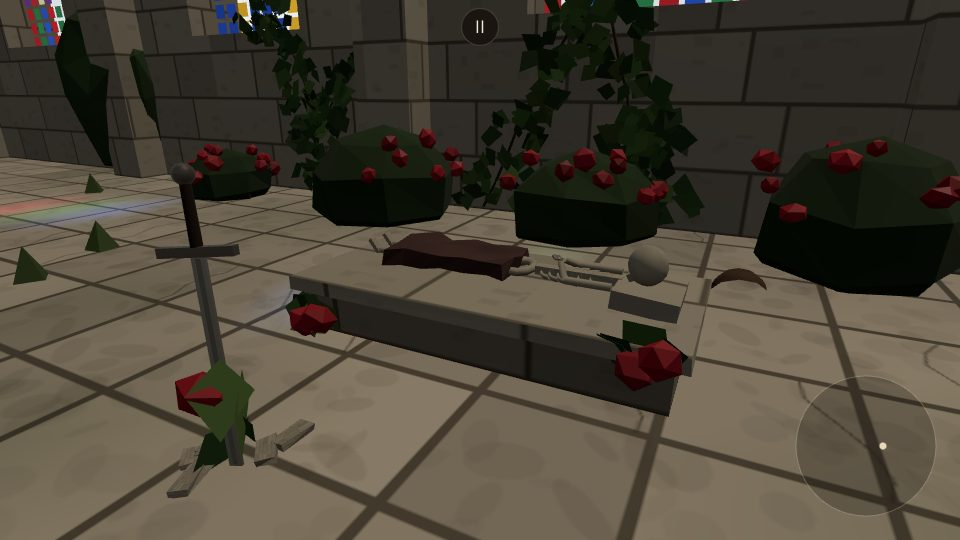
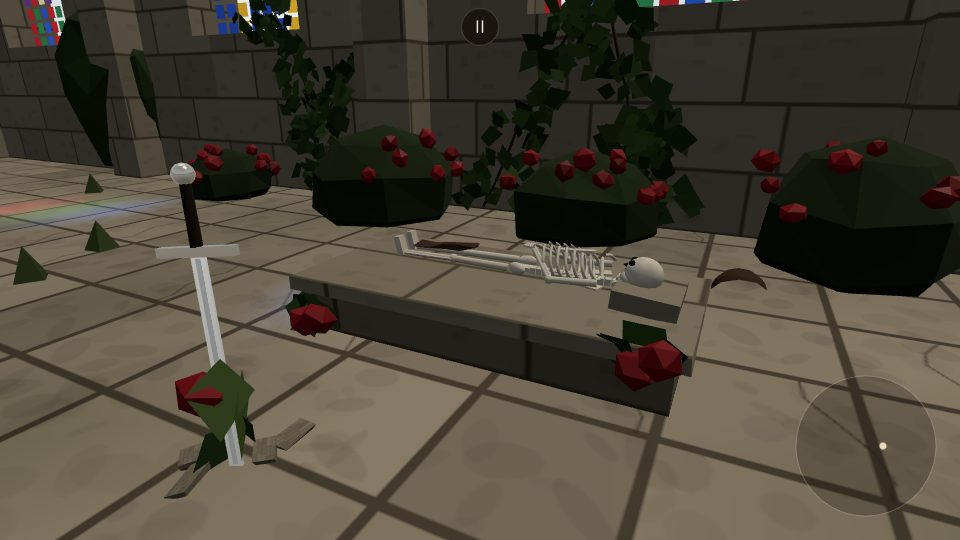
대성당 유해: 갈비뼈·복장뼈·팔다리뼈를 갖춘 흰 사람 뼈대로, 꽂힌 칼은 은빛으로 빛나게
Claude-Session: https://claude.ai/code/session_01HNkUuYHag8VSg6xpgbkGVR

diff --git a/src/stage_cathedral.js b/src/stage_cathedral.js
@@ -737,39 +737,75 @@ export function buildCathedral(scene, lights = {}) {
     {
       const tx = -22.75; // 가운데 결투 자리에서 아케이드 아치 사이로 보이는 칸
       const tz = AZ - 4.2;
-      const bone = 0xd6cbb0;
+      const bone = 0xf1ebdc; // 바닥보다 확실히 흰 뼈
       const bh = 0.42; // 관대 높이 (낮게: 누운 유해가 보이게)
       K.put('stone', box(2.6, bh - 0.1, 1.15), C.stoneDark, [tx, (bh - 0.1) / 2, tz], [0, 0, 0], 1, { ...st, rough: 0.02 });
       K.put('stone', box(2.75, 0.1, 1.3), C.stone, [tx, bh - 0.05, tz], [0, 0, 0], 1, { ...st, rough: 0.015 });
       K.put('stone', box(0.4, 0.12, 0.5), C.stone, [tx - 1.05, bh + 0.06, tz], [0, 0, 0.08], 1, st); // 돌 베개
       const y = bh + 0.07;
       const B = (g, pos, rot = [0, 0, 0], sc = 1) => K.put('bone', g, bone, pos, rot, sc, { vary: 0.08, noise: 0.12 });
-      // 머리 (+x 가 발쪽, 머리는 −x)
-      const hx = tx - 1.02;
-      B(new THREE.SphereGeometry(0.125, 10, 8), [hx, y + 0.17, tz], [0, 0, 0], [1, 1.05, 0.9]);
-      B(box(0.09, 0.05, 0.08), [hx + 0.07, y + 0.1, tz], [0, 0, -0.5]); // 턱
-      for (const s of [-1, 1]) K.put('dark', new THREE.SphereGeometry(0.024, 6, 4), 0x100c0a, [hx + 0.06, y + 0.24, tz + s * 0.035]); // 눈구멍
-      K.put('dark', box(0.02, 0.025, 0.02), 0x100c0a, [hx + 0.09, y + 0.2, tz]); // 코구멍
-      // 척추·갈비뼈·골반
-      for (let i = 0; i < 9; i++) B(box(0.065, 0.06, 0.07), [hx + 0.18 + i * 0.065, y + 0.04, tz]);
-      for (let i = 0; i < 6; i++) {
-        const x = hx + 0.26 + i * 0.07;
-        const w = 0.13 - Math.abs(i - 2) * 0.012;
-        B(new THREE.TorusGeometry(w * 1.15, 0.017, 4, 10, Math.PI), [x, y + 0.03, tz], [Math.PI / 2, Math.PI / 2, 0], [1, 0.75, 1]);
+      // 반듯이 누운 사람 뼈대 (머리 −x, 발 +x). 얼굴·가슴이 위(+y)를 본다
+      const hx = tx - 1.0;
+      const tube = (pts, r) => B(new THREE.TubeGeometry(new THREE.CatmullRomCurve3(pts.map((q) => new THREE.Vector3(...q))), 10, r, 5, false));
+      // 머리뼈: 둥근 머리 + 턱뼈 + 이 + 눈구멍·코구멍
+      B(new THREE.SphereGeometry(0.11, 12, 9), [hx, y + 0.11, tz], [0, 0, 0], [1.12, 1, 0.92]);
+      B(new THREE.SphereGeometry(0.07, 10, 6), [hx + 0.09, y + 0.07, tz], [0, 0, 0], [0.8, 0.75, 1]); // 광대·위턱
+      B(box(0.07, 0.035, 0.1), [hx + 0.15, y + 0.035, tz], [0, 0, -0.35]); // 아래턱
+      for (let k = -3; k <= 3; k++) B(box(0.012, 0.02, 0.011), [hx + 0.155, y + 0.07, tz + k * 0.013]); // 이
+      for (const sd of [-1, 1]) K.put('dark', new THREE.SphereGeometry(0.024, 8, 6), 0x0c0908, [hx + 0.07, y + 0.185, tz + sd * 0.04], [0, 0, 0], [1, 0.8, 1]); // 눈구멍
+      K.put('dark', new THREE.ConeGeometry(0.016, 0.03, 3), 0x0c0908, [hx + 0.12, y + 0.16, tz], [0, 0, -Math.PI / 2]); // 코구멍
+      // 등뼈 (목~허리)
+      for (let i = 0; i < 13; i++) B(box(0.04, 0.045, 0.05 + (i > 2 ? 0.01 : 0)), [hx + 0.17 + i * 0.047, y + 0.025, tz]);
+      // 갈비뼈 7쌍: 등뼈에서 옆으로 둥글게 돌아 가슴 위 복장뼈로 모인다 (조금씩 발 쪽으로 기울었다)
+      for (let i = 0; i < 7; i++) {
+        const x = hx + 0.27 + i * 0.052;
+        const w = 0.1 + Math.min(i, 4) * 0.012 - Math.max(0, i - 4) * 0.01;
+        const top = 0.17 + Math.min(i, 3) * 0.012;
+        for (const sd of [-1, 1])
+          tube(
+            [
+              [x, y + 0.04, tz + sd * 0.03],
+              [x + 0.02, y + 0.06, tz + sd * (w * 0.85)],
+              [x + 0.04, y + top * 0.65, tz + sd * w],
+              [x + 0.06, y + top, tz + sd * (w * 0.55)],
+              [x + 0.07, y + top + 0.02, tz + sd * 0.03],
+            ],
+            0.011,
+          );
       }
-      B(new THREE.TorusGeometry(0.1, 0.03, 5, 10), [hx + 0.86, y + 0.04, tz], [Math.PI / 2, 0, 0], [1, 1.3, 1]); // 골반
-      // 팔: 가슴 위로 모은 두 손
-      for (const s of [-1, 1]) {
-        B(cyl(0.028, 0.028, 0.3, 5), [hx + 0.33, y + 0.05, tz + s * 0.17], [0, 0, Math.PI / 2]);
-        limb(K, 'bone', [hx + 0.48, y + 0.05, tz + s * 0.17], [hx + 0.55, y + 0.12, tz + s * 0.04], 0.025, 0.022, bone, {}, 5);
-        for (let f = 0; f < 4; f++) B(box(0.05, 0.012, 0.012), [hx + 0.57 + f * 0.012, y + 0.14, tz + s * 0.01 + (f - 1.5) * 0.018]);
+      B(box(0.26, 0.018, 0.04), [hx + 0.44, y + 0.205, tz], [0, 0, -0.08]); // 복장뼈
+      // 빗장뼈·어깨뼈
+      for (const sd of [-1, 1]) {
+        tube([[hx + 0.26, y + 0.19, tz + sd * 0.03], [hx + 0.24, y + 0.17, tz + sd * 0.11], [hx + 0.22, y + 0.12, tz + sd * 0.19]], 0.012);
+        B(box(0.14, 0.01, 0.08), [hx + 0.3, y + 0.03, tz + sd * 0.14], [0, sd * 0.3, 0]);
       }
-      // 바랜 천이 다리를 덮었다 (다리뼈는 발목 아래만 보인다)
-      K.put('cloth', box(0.95, 0.12, 0.5, 6, 1, 3), 0x5a3a36, [hx + 1.35, y + 0.05, tz], [0, 0, 0], 1, { rough: 0.06, noise: 0.2 });
-      for (const s of [-1, 1]) {
-        B(cyl(0.03, 0.026, 0.22, 5), [hx + 1.9, y + 0.03, tz + s * 0.09], [0, 0, Math.PI / 2]);
-        B(box(0.12, 0.03, 0.06), [hx + 2.03, y + 0.06, tz + s * 0.09], [0, 0, 0.9]); // 발뼈
+      // 팔: 위팔뼈는 몸 옆, 아래팔은 배 위로 모여 두 손을 포갰다
+      for (const sd of [-1, 1]) {
+        const sh = [hx + 0.24, y + 0.08, tz + sd * 0.21];
+        const el = [hx + 0.55, y + 0.06, tz + sd * 0.22];
+        const wr = [hx + 0.72, y + 0.19, tz + sd * 0.05];
+        limb(K, 'bone', sh, el, 0.024, 0.02, bone, {}, 6);
+        B(new THREE.SphereGeometry(0.03, 6, 5), el);
+        limb(K, 'bone', el, wr, 0.016, 0.015, bone, {}, 5);
+        limb(K, 'bone', [el[0], el[1] + 0.015, el[2] - sd * 0.02], [wr[0], wr[1] + 0.012, wr[2] - sd * 0.02], 0.012, 0.011, bone, {}, 5);
+        for (let f = 0; f < 4; f++) B(box(0.07, 0.012, 0.012), [wr[0] + 0.05, wr[1] + 0.01, tz + sd * (0.035 - f * 0.018)], [0, sd * 0.3, 0]);
       }
+      // 골반
+      for (const sd of [-1, 1]) B(new THREE.SphereGeometry(0.08, 8, 6), [hx + 0.82, y + 0.05, tz + sd * 0.09], [0, sd * 0.4, 0], [0.9, 0.55, 0.45]);
+      B(box(0.1, 0.03, 0.08), [hx + 0.8, y + 0.03, tz]); // 엉치뼈
+      // 다리: 넙다리뼈·무릎·정강이뼈·발 (발끝이 위로)
+      for (const sd of [-1, 1]) {
+        const hip = [hx + 0.88, y + 0.05, tz + sd * 0.1];
+        const kn = [hx + 1.32, y + 0.05, tz + sd * 0.085];
+        const an = [hx + 1.74, y + 0.04, tz + sd * 0.08];
+        limb(K, 'bone', hip, kn, 0.027, 0.024, bone, {}, 6);
+        B(new THREE.SphereGeometry(0.035, 6, 5), kn);
+        limb(K, 'bone', kn, an, 0.022, 0.019, bone, {}, 6);
+        limb(K, 'bone', [kn[0], kn[1], kn[2] + sd * 0.025], [an[0], an[1], an[2] + sd * 0.022], 0.011, 0.01, bone, {}, 4);
+        B(box(0.05, 0.14, 0.07), [an[0] + 0.04, y + 0.09, an[2]], [0, 0, -0.25]); // 발
+      }
+      // 바랜 천 조각: 한쪽 정강이 위에만 걸쳐 있다
+      K.put('cloth', box(0.45, 0.02, 0.26, 4, 1, 2), 0x5a3a36, [hx + 1.48, y + 0.08, tz + 0.1], [0.15, 0.3, 0], 1, { rough: 0.03, noise: 0.25 });
       // 머리맡의 녹슨 투구
       K.put('rust', new THREE.SphereGeometry(0.17, 10, 6, 0, Math.PI * 2, 0, Math.PI / 2), 0x6a4a36, [tx - 1.55, bh + 0.02, tz + 0.35], [0.9, 0.4, 0.2], 1, { vary: 0.1, noise: 0.25 });
       // 관대 둘레로 기어오른 장미
@@ -785,13 +821,13 @@ export function buildCathedral(scene, lights = {}) {
       const sz = tz - 1.9;
       K.push([sx, 0, sz], 0.35);
       const tilt = [0.1, 0, -0.07];
-      const steel = 0x8a857c;
+      const steel = 0xd2d5da;
       const at = (h) => [Math.sin(-tilt[2]) * h, Math.cos(tilt[0]) * h, Math.sin(tilt[0]) * h];
       K.put('sword', box(0.065, 1.02, 0.016), steel, at(0.51), tilt, 1, { vary: 0.04, noise: 0.18 }); // 드러난 칼날
-      K.put('sword', box(0.024, 1.0, 0.018), 0x6e6960, at(0.51), tilt, 1, { vary: 0 }); // 피 홈
-      K.put('sword', box(0.36, 0.045, 0.045), 0x5a5048, at(1.04), tilt, 1, { vary: 0.05 }); // 코등이
+      K.put('sword', box(0.024, 1.0, 0.018), 0xa9adb3, at(0.51), tilt, 1, { vary: 0 }); // 피 홈
+      K.put('sword', box(0.36, 0.045, 0.045), 0x9a958c, at(1.04), tilt, 1, { vary: 0.05 }); // 코등이
       K.put('rust', cyl(0.024, 0.027, 0.28, 7), 0x3a2a20, at(1.2), tilt); // 손잡이 (가죽이 삭았다)
-      K.put('sword', new THREE.SphereGeometry(0.048, 8, 6), 0x5a5048, at(1.37), tilt); // 폼멜
+      K.put('sword', new THREE.SphereGeometry(0.048, 8, 6), 0x9a958c, at(1.37), tilt); // 폼멜
       K.pop();
       // 칼이 박힌 자리의 깨진 판석 조각
       for (let k = 0; k < 6; k++) {
@@ -843,11 +879,11 @@ export function buildCathedral(scene, lights = {}) {
     K.mesh('iron', std({ roughness: 0.5, metalness: 0.6 })),
     K.mesh('ivy', std({ roughness: 1, flatShading: true }), { light: shade }),
     K.mesh('vine', std({ roughness: 1 }), { light: shade }),
-    K.mesh('bone', std({ roughness: 0.85 }), { light: shade }),
+    K.mesh('bone', std({ roughness: 0.7, emissive: 0x2a2622, emissiveIntensity: 0.5 })), // 그늘을 굽지 않고 살짝 밝혀 희게 보이게
     K.mesh('cloth', std({ roughness: 1, flatShading: true }), { light: shade }),
     K.mesh('dark', std({ roughness: 1 })),
     K.mesh('rust', std({ roughness: 0.9, metalness: 0.3 }), { light: shade }),
-    K.mesh('sword', std({ roughness: 0.45, metalness: 0.85, envMap: weaponEnv(), envMapIntensity: 0.9 }), { light: shade }),
+    K.mesh('sword', std({ roughness: 0.18, metalness: 0.95, envMap: weaponEnv(), envMapIntensity: 2.2, emissive: 0x1c2026, emissiveIntensity: 0.6 })), // 어둑한 복도에서도 칼날이 빛나게
     K.mesh('candle', std({ roughness: 0.6, emissive: 0x3a2a10, emissiveIntensity: 0.6 })),
     K.mesh('glow', new THREE.MeshBasicMaterial({ vertexColors: true, fog: false })),
   ];

diff --git a/docs/stages.md b/docs/stages.md
@@ -107,8 +107,9 @@ arena.js와 같이 `{ update, excite, sunOffset }`을 반환한다.
   - 줄기는 가는 관이고, 잎(마름모)과 장미(깎은 꽃송이)는 인스턴싱으로 그린다. 장미는 붉은색 한 가지로, 짙기만 조금씩 다르다.
 - **오래 안치된 유해와 바닥에 꽂힌 칼** (마르그레테 슈바르츠의 설정에서 착안):
   - 장미 구석 가까운 북쪽 옆 복도 한 칸에 낮은 돌 관대를 두었다.
-  - 관대 위에는 백골이 누워 있다. 두 손을 가슴에 모았고, 바랜 천이 다리를 덮었으며, 머리맡에 녹슨 투구가 있다.
-  - 관대 앞 깨진 판석 틈에는 장식 없는 롱소드가 조금 기운 채 꽂혀 녹슬었고, 밑동에 붉은 장미 한 송이가 감겨 있다.
+  - 관대 위에는 흰 백골이 반듯이 누워 있다. 머리뼈(턱·이·눈구멍), 등뼈, 갈비뼈 일곱 쌍과 복장뼈, 빗장뼈, 골반, 팔다리뼈를 다 갖췄다.
+  - 두 손은 배 위에 포갰고, 바랜 천 조각이 한쪽 정강이에만 걸쳐 있으며, 머리맡에 녹슨 투구가 있다.
+  - 관대 앞 깨진 판석 틈에는 장식 없는 롱소드가 조금 기운 채 꽂혀 있다. 칼날은 어둑한 복도에서도 은빛으로 빛나고, 밑동에 붉은 장미 한 송이가 감겨 있다.
   - 관대 양 끝에도 장미가 기어오른다.
   - 누구의 유해인지는 정하지 않았다. 설정에서 마르그레테는 남편 콘라트의 칼을 지금도 들고 다니므로, 꽂힌 칼은 콘라트의 칼이 아니다.
 - **바닥**: 판석과 이끼 얼룩, 돌무더기, 쓰러진 기둥 토막, 떨어진 갈비뼈 토막. 서쪽 신랑에는 줄지은 신도석이 있고, 몇 개는 넘어졌다. 벽을 타고 오른 담쟁이와 판석 틈 풀도 있다.
@@ -127,6 +128,7 @@ arena.js와 같이 `{ update, excite, sunOffset }`을 반환한다.
 - [가운데에서 본 북쪽](stages/cathedral_roses.jpg)
 - [북서쪽 구석](stages/cathedral_corner.jpg)
 - [유해와 꽂힌 칼](stages/cathedral_tomb.jpg)
+- [유해 가까이](stages/cathedral_bones.jpg)
 - [꽂힌 칼](stages/cathedral_sword.jpg)
 - [기둥 덩굴](stages/cathedral_pier.jpg)
 
